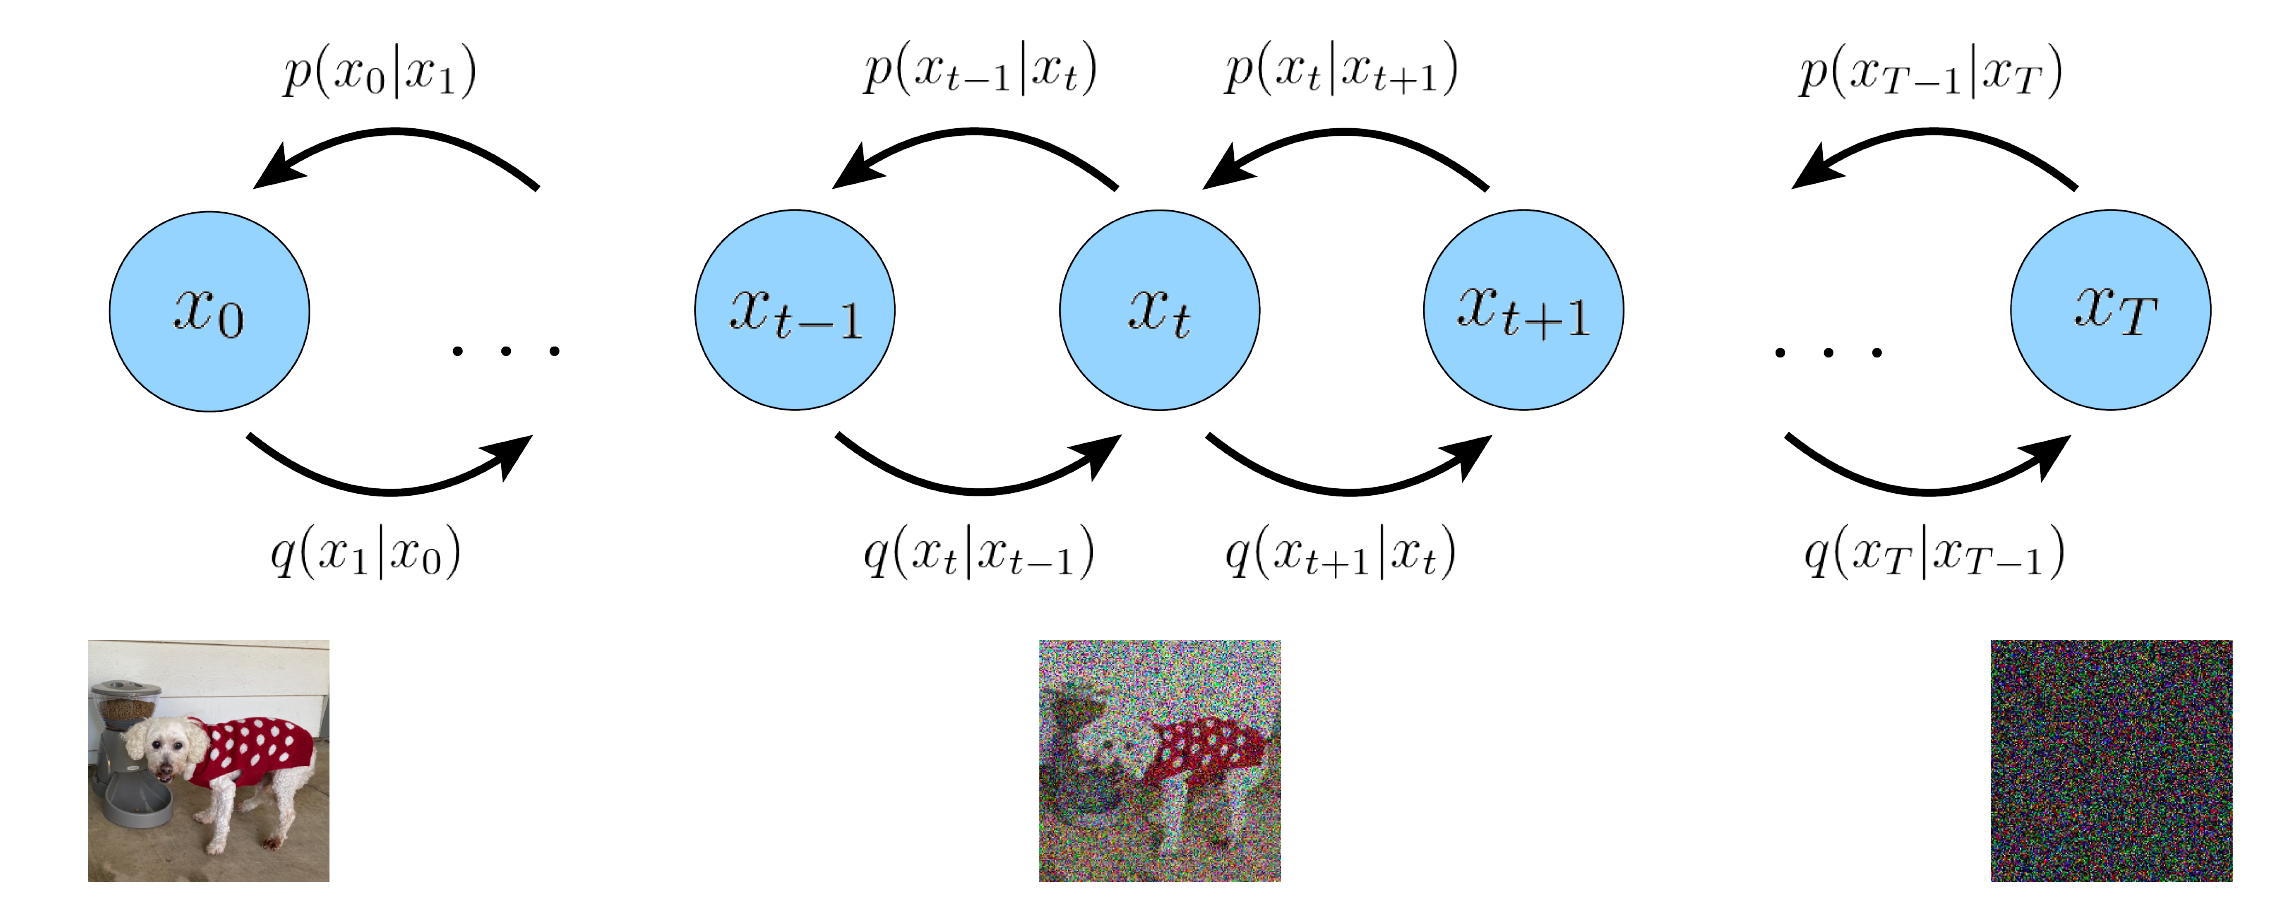
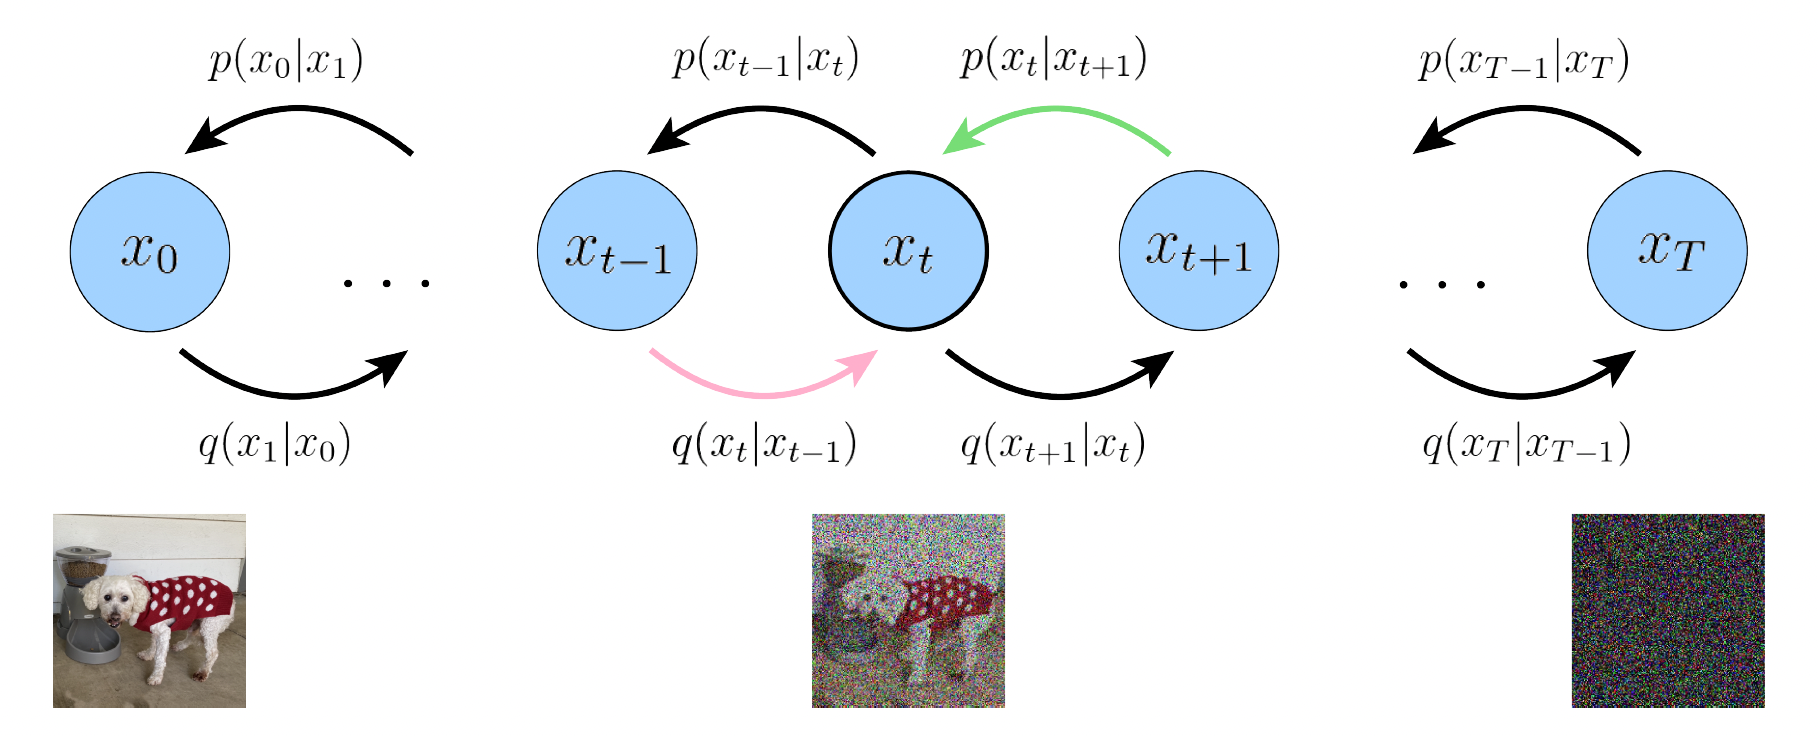
rebuilding site Thu Mar 21 02:38:41 KST 2024

diff --git a/content/post/diffusion/2024-03-12-understanding-diffusion-model.md b/content/post/diffusion/2024-03-12-understanding-diffusion-model.md
@@ -257,7 +257,7 @@ $$
 \begin{aligned}
     \log{p(x)} &= \log{\int{p(x_{0:T})dx_{1:T}}} \\
     &\cdots \\ 
-    &= \underbrace{\mathbb{E}_{q(x_{1:T}|x_0)}[\log{p_\theta(x_0|x_1)}]}_{\footnotesize\mathrm{reconstruction \ term}} - \underbrace{\mathbb{E}_{q(x_{T-1}|x_0)}[D_{KL}(q(x_T|x_{T-1})\ ||\ p(x_T))]}_{\footnotesize\mathrm{prior \ matching \ term}} \\
+    &= \underbrace{\mathbb{E}_{q(x_{1}|x_0)}[\log{p_\theta(x_0|x_1)}]}_{\footnotesize\mathrm{reconstruction \ term}} - \underbrace{\mathbb{E}_{q(x_{T-1}|x_0)}[D_{KL}(q(x_T|x_{T-1})\ ||\ p(x_T))]}_{\footnotesize\mathrm{prior \ matching \ term}} \\
     &\qquad- \sum_{t=1}^{T-1}\underbrace{\mathbb{E}_{q(x_{t-1}, x_{t+1}|x_0)}[D_{KL}(q(x_t|x_{t-1})\ ||\ p_\theta(x_t|x_{t+1}))]}_{\footnotesize\mathrm{consistency \ term}} \\
 \end{aligned}
 $$
@@ -278,7 +278,7 @@ $$
     &= \mathbb{E}_{q(x_{1:T}|x_0)}[\log{p_\theta(x_0|x_1)}] + \mathbb{E}_{q(x_{1:T}|x_0)}\bigg[\log{\cfrac{p(x_T)}{q(x_T|x_{T-1})}}\bigg] + \mathbb{E}_{q(x_{1:T}|x_0)}\bigg[\sum_{t=1}^{T-1}\log{\cfrac{p_\theta(x_t|x_{t+1})}{q(x_t|x_{t-1})}}\bigg] \\
     &= \mathbb{E}_{q(x_{1:T}|x_0)}[\log{p_\theta(x_0|x_1)}] + \mathbb{E}_{q(x_{1:T}|x_0)}\bigg[\log{\cfrac{p(x_T)}{q(x_T|x_{T-1})}}\bigg] + \sum_{t=1}^{T-1}\mathbb{E}_{q(x_{1:T}|x_0)}\bigg[\log{\cfrac{p_\theta(x_t|x_{t+1})}{q(x_t|x_{t-1})}}\bigg] \\
     &= \mathbb{E}_{q(x_{1:T}|x_0)}[\log{p_\theta(x_0|x_1)}] + \mathbb{E}_{q(x_{T-1}, x_T|x_0)}\bigg[\log{\cfrac{p(x_T)}{q(x_T|x_{T-1})}}\bigg] + \sum_{t=1}^{T-1}\mathbb{E}_{q(x_{t-1}, x_t, x_{t+1}|x_0)}\bigg[\log{\cfrac{p_\theta(x_t|x_{t+1})}{q(x_t|x_{t-1})}}\bigg] \\
-    &= \underbrace{\mathbb{E}_{q(x_{1:T}|x_0)}[\log{p_\theta(x_0|x_1)}]}_{\footnotesize\mathrm{reconstruction \ term}} - \underbrace{\mathbb{E}_{q(x_{T-1}|x_0)}[D_{KL}(q(x_T|x_{T-1})\ ||\ p(x_T))]}_{\footnotesize\mathrm{prior \ matching \ term}} \\
+    &= \underbrace{\mathbb{E}_{q(x_{1}|x_0)}[\log{p_\theta(x_0|x_1)}]}_{\footnotesize\mathrm{reconstruction \ term}} - \underbrace{\mathbb{E}_{q(x_{T-1}|x_0)}[D_{KL}(q(x_T|x_{T-1})\ ||\ p(x_T))]}_{\footnotesize\mathrm{prior \ matching \ term}} \\
     &\qquad- \sum_{t=1}^{T-1}\underbrace{\mathbb{E}_{q(x_{t-1}, x_{t+1}|x_0)}[D_{KL}(q(x_t|x_{t-1})\ ||\ p_\theta(x_t|x_{t+1}))]}_{\footnotesize\mathrm{consistency \ term}} \\
 \end{aligned}
 $$
@@ -289,8 +289,52 @@ $$
 > prior matching term: 마지막 latent encoder와 Gaussian 분포의 유사도. parameter가 없기 때문에 학습되지 않고, optimal할 경우 이 값은 0이다.  
 > consistency term: $x_{t-1}$에서의 encoder와 $x_{t+1}$에서의 decoder의 분포도가 같아지도록 학습해야 $D_{KL} \rightarrow 0$으로 수렴한다. 
 
-<img src="/images/diffusion/2024-03-12-understanding-diffusion-model/figure3.png" width="80%"/>
+<img src="/images/diffusion/2024-03-12-understanding-diffusion-model/figure4.png" width="80%"/>
 
 consistency term을 그림으로 위와 같이 나타낼 수 있다. 핑크색 encoder와 초록색 decoder가 같은 $x_t$분포도를 가질 수 있도록 학습하는 것이 이 term을 최소화시킬 수 있다. 또한 ELBO 식 전체에서 다른 두개의 term에 비해 consistency term의 비중이 매우 크기 때문에, 이 값을 줄이는 것이 핵심이고, ELBO를 최대화 시키게 된다. 
 
-그런데, 위와 같이 consistency term을 나타낼 경우,  
+그런데, 위와 같이 두개의 random variable($x_{t-1}, x_{t+1}$)을 이용해서 consistency term을 나타내면 이를 이용해 최적화한 ELBO가 suboptimal하게 될 수 있다. 그래서 ELBO식을 하나의 random variable을 이용해서 나타내보자. encoder $q(x_t|x_{t-1})$은 Markov property에 의해 $q(x_t|x_{t-1}, x_0)$으로 나타낼 수 있고, 이 식은 Bayes rule을 이용해 다음과 같이 변경할 수 있다:  
+{{< rawhtml >}}
+$$
+\begin{aligned}
+    q(x_t|x_{t-1}, x_0) = \cfrac{q(x_{t-1}|x_t,x_0)q(x_t|x_0)}{q(x_{t-1}|x_0)}
+\end{aligned}
+$$
+{{< /rawhtml >}}  
+
+이를 이용해 ELBO를 다음과 같이 나타낼 수 있다:  
+{{< rawhtml >}}
+$$
+\begin{aligned}
+    \log{p(x)} 
+    &\geq \mathbb{E}_{q(x_{1:T}|x_0)}\bigg[\log{\cfrac{p(x_{0:T})}{q(x_{1:T}|x_0)}}\bigg] \\
+    &=\mathbb{E}_{q(x_{1:T}|x_0)}\bigg[\log{\cfrac{p(x_T)\prod_{t=1}^Tp_\theta(x_{t-1}|x_t)}{\prod_{t=1}^Tq(x_t|x_{t-1})}}\bigg] \\
+    &= \mathbb{E}_{q(x_{1:T}|x_0)}\bigg[\log{\cfrac{p(x_T)p_\theta(x_0|x_1)\prod_{t=2}^Tp_\theta(x_{t-1}|x_t)}{q(x_1|x_0)\prod_{t=2}^{T}q(x_t|x_{t-1})}}\bigg] \\
+    &= \mathbb{E}_{q(x_{1:T}|x_0)}\bigg[\log{\cfrac{p(x_T)p_\theta(x_0|x_1)\prod_{t=2}^Tp_\theta(x_{t-1}|x_t)}{q(x_1|x_0)\prod_{t=2}^{T}q(x_t|x_{t-1}, x_0)}}\bigg] \\
+    &= \mathbb{E}_{q(x_{1:T}|x_0)}\bigg[\log{\cfrac{p(x_T)p_\theta(x_0|x_1)}{q(x_1|x_0)}}\bigg] + \mathbb{E}_{q(x_{1:T}|x_0)}\bigg[\log{\prod_{t=2}^{T}\cfrac{p_\theta(x_{t-1}|x_t)}{q(x_t|x_{t-1}, x_0)}}\bigg] \\
+    &= \mathbb{E}_{q(x_{1:T}|x_0)}\bigg[\log{\cfrac{p(x_T)p_\theta(x_0|x_1)}{q(x_1|x_0)}}\bigg] + \mathbb{E}_{q(x_{1:T}|x_0)}\bigg[\log{\prod_{t=2}^{T}\cfrac{p_\theta(x_{t-1}|x_t)}{\tiny\cfrac{q(x_{t-1}|x_t,x_0)q(x_t|x_0)}{q(x_{t-1}|x_0)}}}\bigg] \\
+    &\cdots \\
+    &= \underbrace{\mathbb{E}_{q(x_{1}|x_0)}[\log{p_\theta(x_0|x_1)}]}_{\footnotesize\mathrm{reconstruction \ term}} - \underbrace{[D_{KL}(q(x_T|x_0)\ ||\ p(x_T))]}_{\footnotesize\mathrm{prior \ matching \ term}} \\
+    &\qquad- \sum_{t=1}^{T-1}\underbrace{\mathbb{E}_{q(x_t|x_0)}[D_{KL}(q(x_{t-1}|x_t,x_0)\ ||\ p_\theta(x_{t-1}|x_t))]}_{\footnotesize\mathrm{consistency \ term}} \\
+\end{aligned}
+$$
+{{< /rawhtml >}} 
+<details>
+<summary style="cursor: pointer;"> 증명) </summary>
+{{< rawhtml >}}
+$$
+\begin{aligned}
+    \log{p(x)} 
+    &\geq \mathbb{E}_{q(x_{1:T}|x_0)}\bigg[\log{\cfrac{p(x_{0:T})}{q(x_{1:T}|x_0)}}\bigg] \\
+    &=\mathbb{E}_{q(x_{1:T}|x_0)}\bigg[\log{\cfrac{p(x_T)\prod_{t=1}^Tp_\theta(x_{t-1}|x_t)}{\prod_{t=1}^Tq(x_t|x_{t-1})}}\bigg] \\
+    &= \mathbb{E}_{q(x_{1:T}|x_0)}\bigg[\log{\cfrac{p(x_T)p_\theta(x_0|x_1)\prod_{t=2}^Tp_\theta(x_{t-1}|x_t)}{q(x_1|x_0)\prod_{t=2}^{T}q(x_t|x_{t-1})}}\bigg] \\
+    &= \mathbb{E}_{q(x_{1:T}|x_0)}\bigg[\log{\cfrac{p(x_T)p_\theta(x_0|x_1)\prod_{t=2}^Tp_\theta(x_{t-1}|x_t)}{q(x_1|x_0)\prod_{t=2}^{T}q(x_t|x_{t-1}, x_0)}}\bigg] \\
+    &= \mathbb{E}_{q(x_{1:T}|x_0)}\bigg[\log{\cfrac{p(x_T)p_\theta(x_0|x_1)}{q(x_1|x_0)}}\bigg] + \mathbb{E}_{q(x_{1:T}|x_0)}\bigg[\log{\prod_{t=2}^{T}\cfrac{p_\theta(x_{t-1}|x_t)}{q(x_t|x_{t-1}, x_0)}}\bigg] \\
+    &= \mathbb{E}_{q(x_{1:T}|x_0)}\bigg[\log{\cfrac{p(x_T)p_\theta(x_0|x_1)}{q(x_1|x_0)}}\bigg] + \mathbb{E}_{q(x_{1:T}|x_0)}\bigg[\log{\prod_{t=2}^{T}\cfrac{p_\theta(x_{t-1}|x_t)}{\tiny\cfrac{q(x_{t-1}|x_t,x_0)q(x_t|x_0)}{q(x_{t-1}|x_0)}}}\bigg] \\
+    &\cdots \\
+    &= \underbrace{\mathbb{E}_{q(x_{1}|x_0)}[\log{p_\theta(x_0|x_1)}]}_{\footnotesize\mathrm{reconstruction \ term}} - \underbrace{[D_{KL}(q(x_T|x_0)\ ||\ p(x_T))]}_{\footnotesize\mathrm{prior \ matching \ term}} \\
+    &\qquad- \sum_{t=1}^{T-1}\underbrace{\mathbb{E}_{q(x_t|x_0)}[D_{KL}(q(x_{t-1}|x_t,x_0)\ ||\ p_\theta(x_{t-1}|x_t))]}_{\footnotesize\mathrm{consistency \ term}} \\
+\end{aligned}
+$$
+{{< /rawhtml >}} 
+</details>
